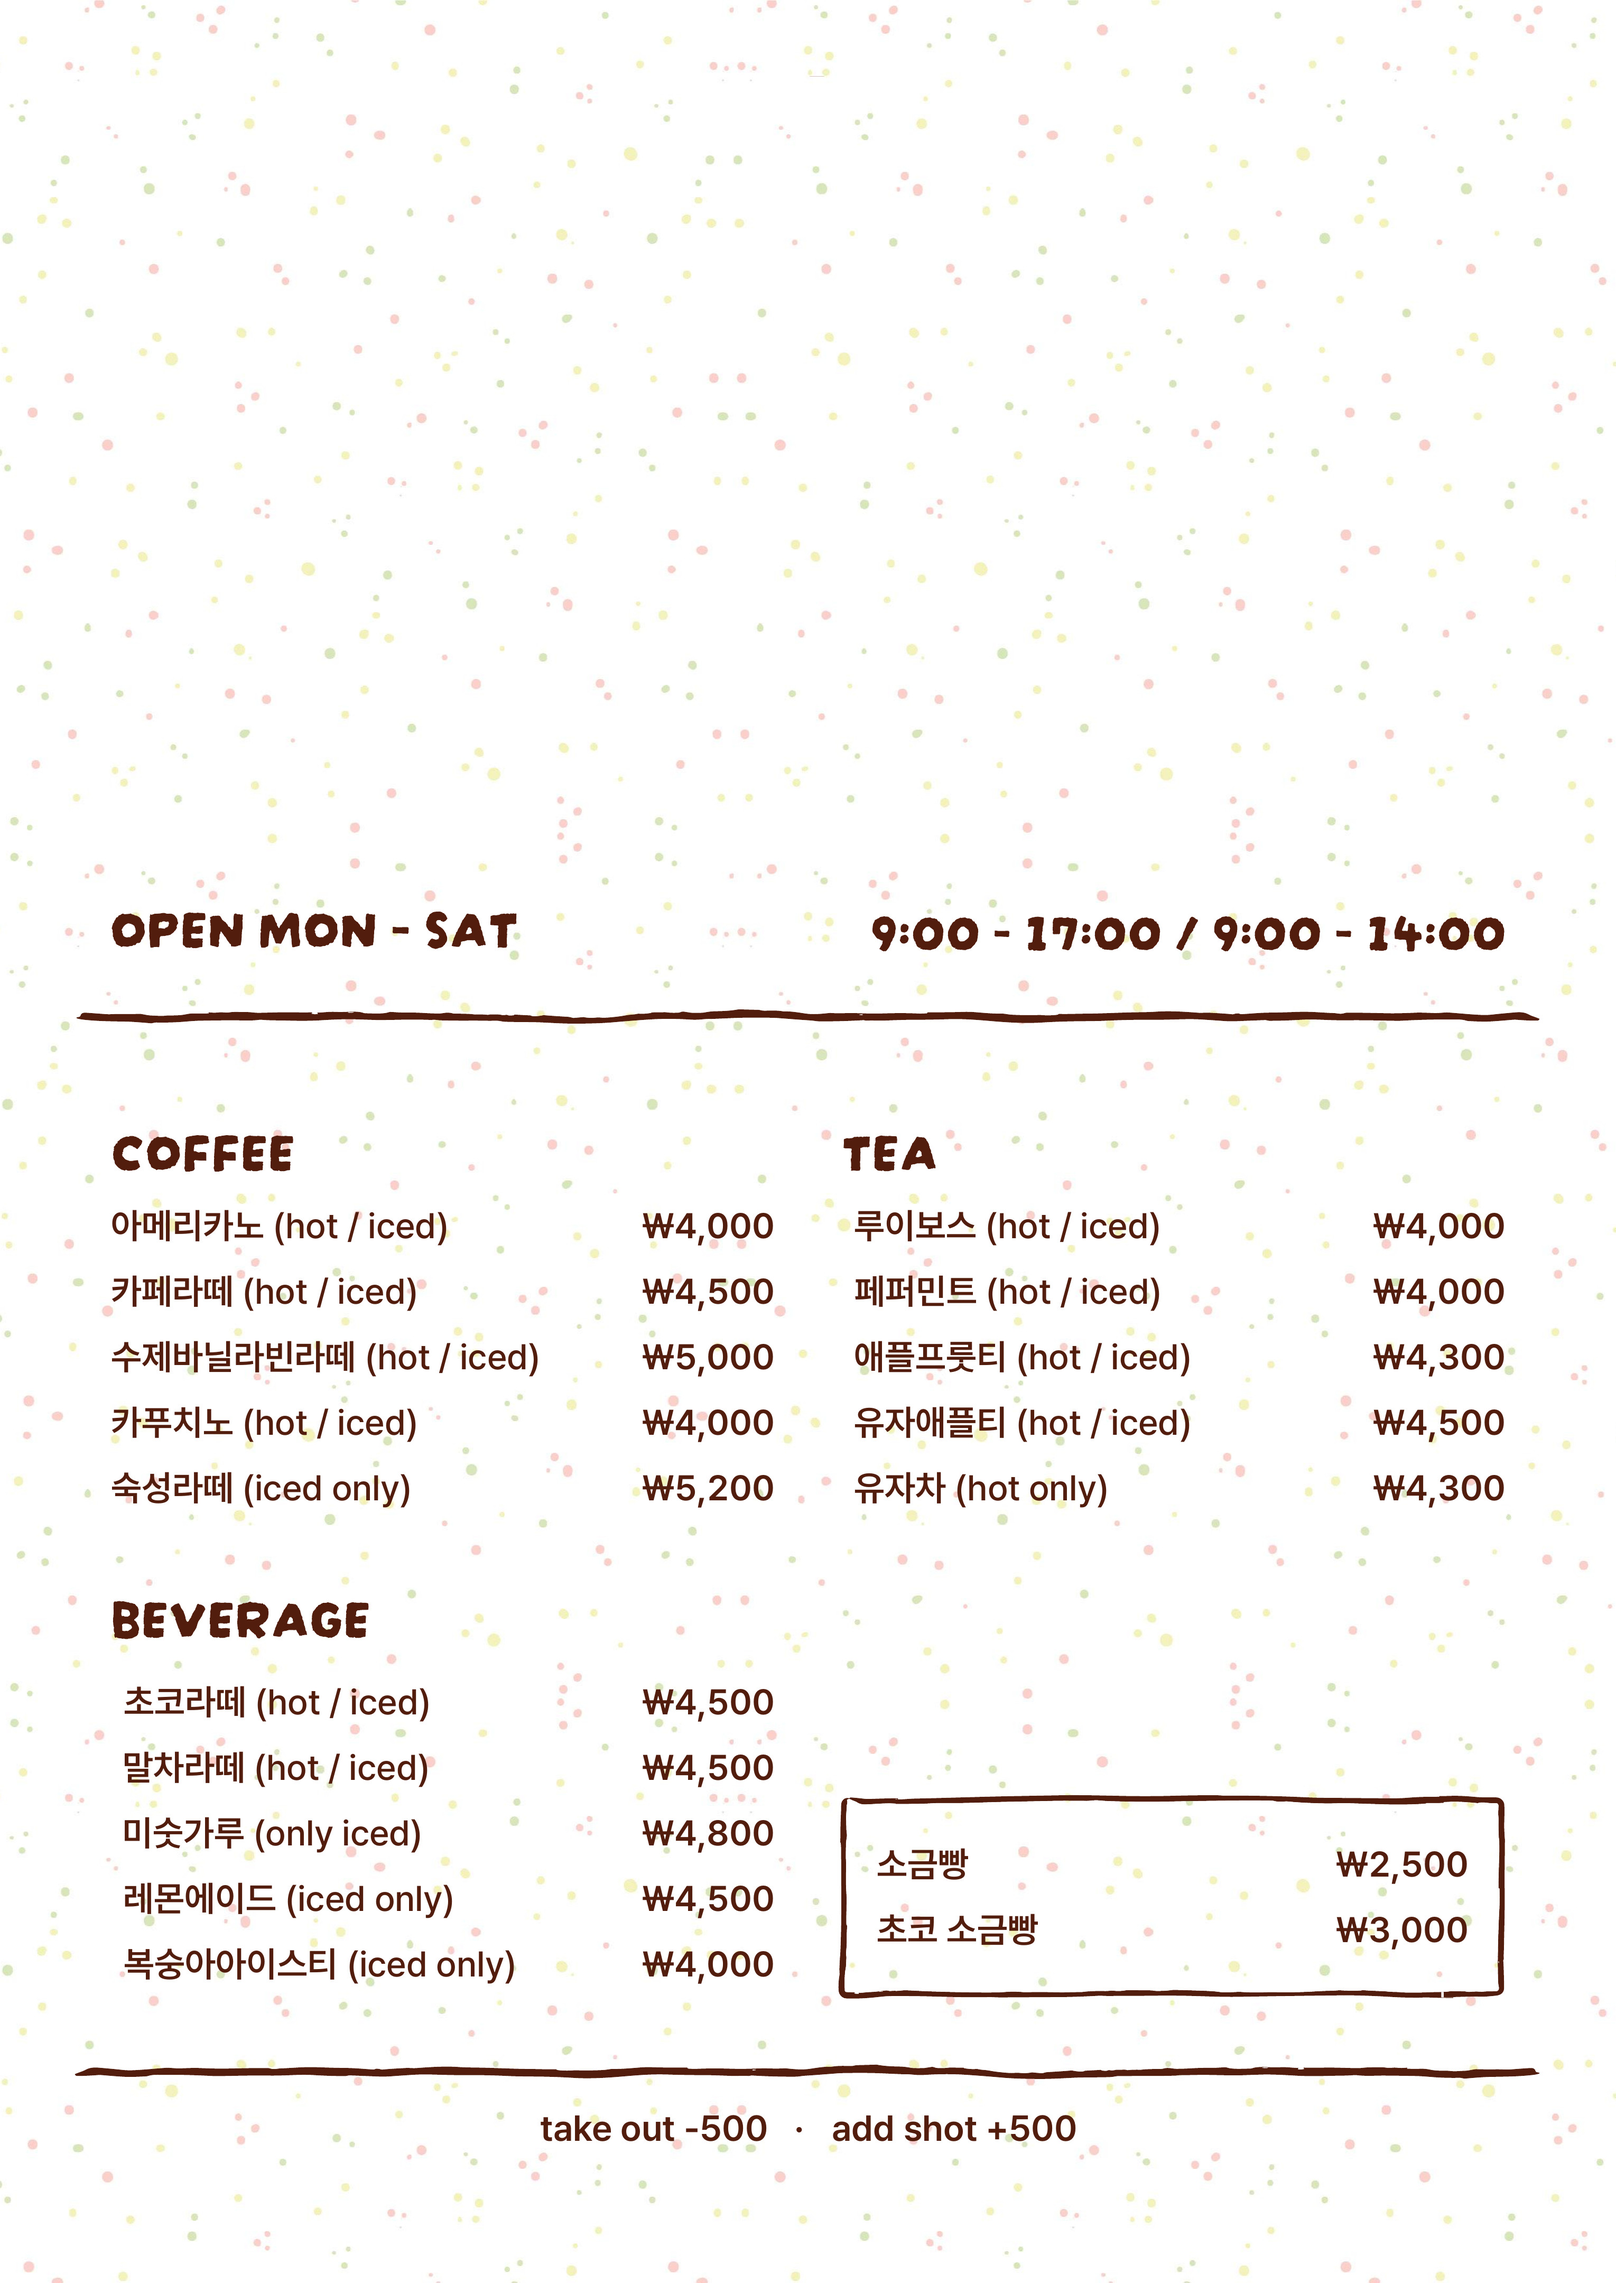
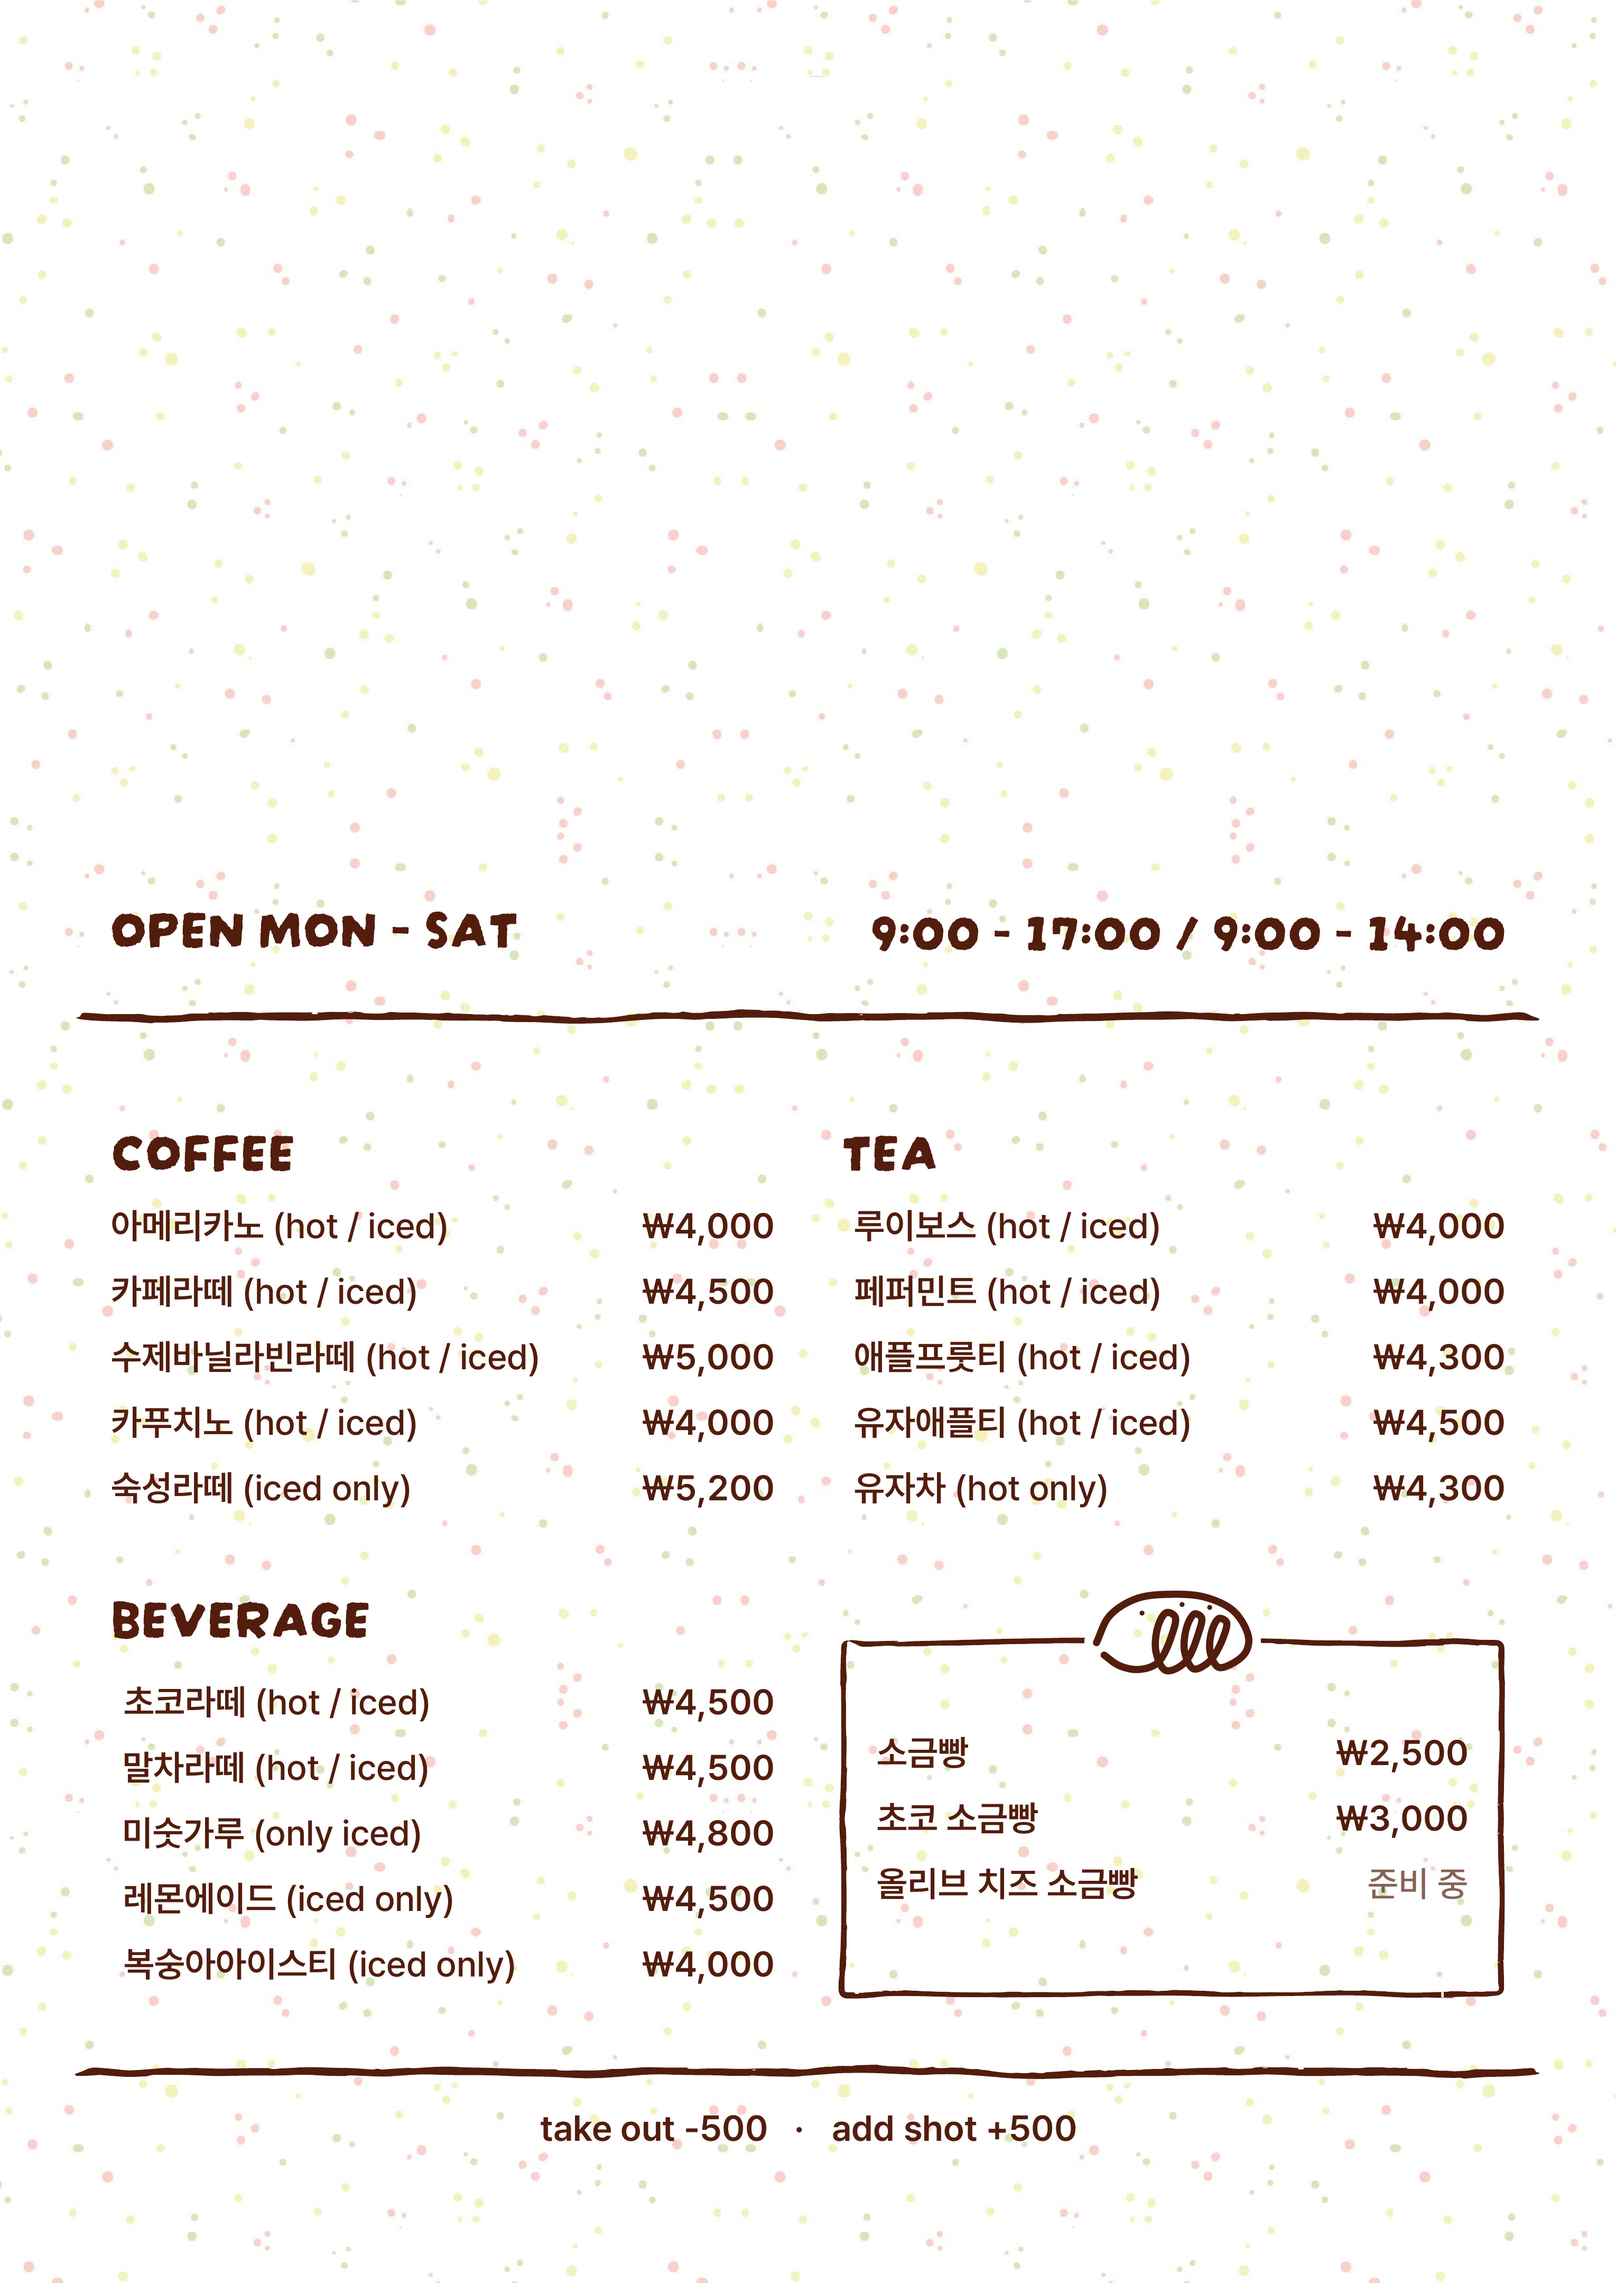
소금빵 박스 리디자인(한 획 일러스트, 올리브 치즈 소금빵 준비 중), 소금빵 슬라이드 추가
Claude-Session: https://claude.ai/code/session_012HYTAtRX4y2XSQaXUTKD2R

diff --git a/index.html b/index.html
@@ -101,6 +101,7 @@
     <div id="left">
       <img id="photo" src="photo.jpg?v=9" alt="">
       <div class="slides" id="slides" aria-hidden="true">
+        <img class="slide" src="slides/05.jpg" alt="">
         <img class="slide" src="slides/01.jpg" alt="">
         <img class="slide" src="slides/02.jpg" alt="">
         <img class="slide" src="slides/03.jpg" alt="">
@@ -113,7 +114,7 @@
       </ul>
     </div>
     <div id="right">
-      <img id="menu" src="menu.jpg?v=13" alt="">
+      <img id="menu" src="menu.jpg?v=14" alt="">
       <div id="logoBox" aria-hidden="true"><canvas id="loopCv"></canvas></div>
       <p class="pick" aria-hidden="true" style="left:25.997%;top:65.169%">Pick!</p>
       <p class="pick" aria-hidden="true" style="left:27.109%;top:77.414%">Pick!</p>
